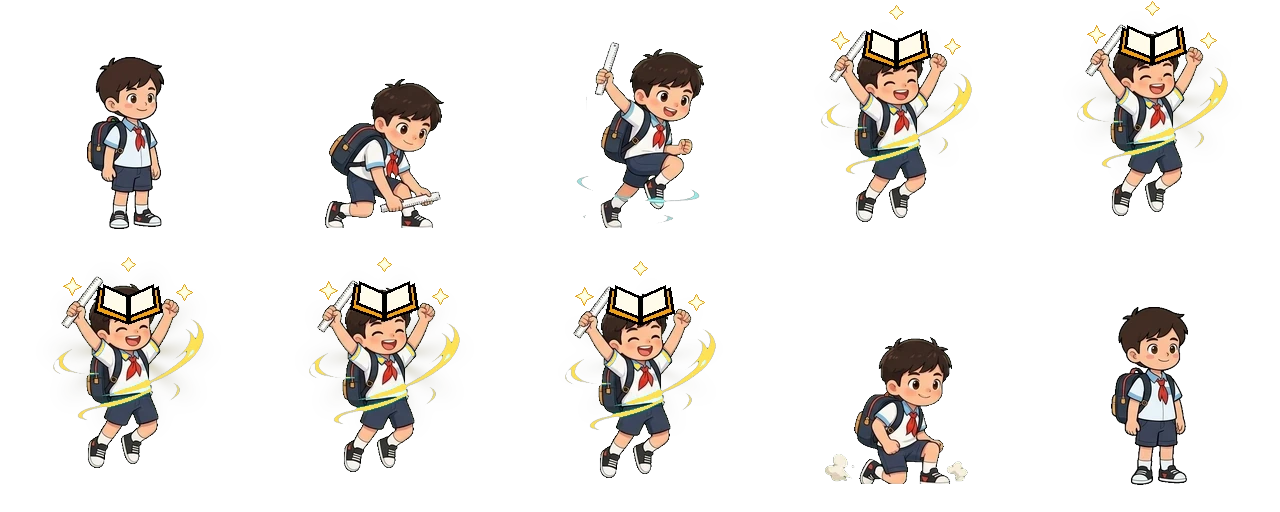
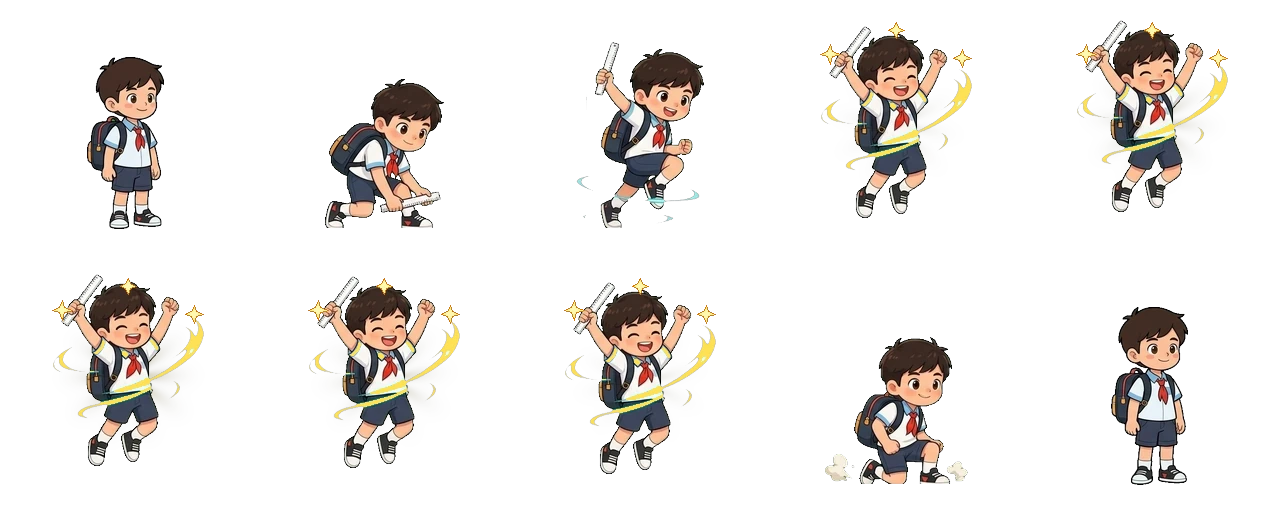
Hero 4: wall-slam Piercing Palm dash (no projectile), wallSlamMode setting, & Final Exam Judgment (no book)

diff --git a/game.js b/game.js
@@ -420,7 +420,7 @@
       name: '班長小強',
       hudName: '班長小強',
       badge: '📚 熱血班長',
-      subtitle: '雙掌太極推 · 書包大風車 · 直尺昇龍斬 · 黃金課本審判',
+      subtitle: '雙掌太極推 · 書包大風車 · 飛馳穿心掌 · 期末考大審判',
       accent: '#2563eb',
       accentLight: '#60a5fa',
       accentDark: '#1e3a8a',
@@ -428,9 +428,9 @@
       walkSpeed: 240,
       runSpeed: 392,
       specialType: 'judgment',
-      specialLabel: '黃金課本審判',
-      specialShout: '黃金課本・聖光審判!!',
-      specialSub: 'GOLDEN TEXTBOOK JUDGMENT!!',
+      specialLabel: '期末考大審判',
+      specialShout: '期末考大審判!!',
+      specialSub: 'FINAL EXAM JUDGMENT!!',
       heavyShout: '書包大風車橫掃!!',
       heavySub: 'BACKPACK WINDMILL!!',
       dashLightShout: '飛馳穿心掌!!',
@@ -695,10 +695,10 @@
       { id: 'boy_dash', label: '衝刺・疾風滑步 (Dash)', triggerDesc: '低姿青色風軌滑步瞬間突進閃避', sheetKey: 'boy_dash', fallbackSheet: 'boy_idle', fps: 24, cols: 5, rows: 2, frameCount: 10, key: null, altKeys: [], rebindable: false },
       { id: 'boy_lightAttack', label: '輕攻擊・雙掌太極推 (Light)', triggerDesc: '武術推掌連擊：右掌推擊→左掌蓄力→雙掌爆裂氣波推', sheetKey: 'boy_lightAttack', fallbackSheet: 'boy_idle', fps: 17, cols: 5, rows: 2, frameCount: 10, key: null, altKeys: [], rebindable: false },
       { id: 'boy_attack', label: '重攻擊・書包大風車橫掃 (Heavy)', triggerDesc: '摘下深藍書包 360° 大風車猛力橫掃，爆出青色弧形衝擊波', sheetKey: 'boy_attack', fallbackSheet: 'boy_idle', fps: 16, cols: 5, rows: 2, frameCount: 10, key: null, altKeys: [], rebindable: false },
-      { id: 'boy_dashLightAttack', label: '衝刺輕攻擊・飛馳穿心掌 (Dash Light)', triggerDesc: '奔跑中按輕攻疾馳突進單掌破風氣功推擊', sheetKey: 'boy_dashLightAttack', fallbackSheet: 'boy_idle', fps: 17, cols: 5, rows: 2, frameCount: 10, key: null, altKeys: [], rebindable: false },
+      { id: 'boy_dashLightAttack', label: '衝刺輕攻擊・飛馳穿心掌（撞飛撞牆） (Dash Light)', triggerDesc: '奔跑中按輕攻疾馳突進近身猛推，將敵人高速打飛至畫面邊緣猛烈撞牆並撞飛沿路敵人', sheetKey: 'boy_dashLightAttack', fallbackSheet: 'boy_idle', fps: 17, cols: 5, rows: 2, frameCount: 10, key: null, altKeys: [], rebindable: false },
       { id: 'boy_dashAttack', label: '衝刺重攻擊・書包肩撞鐵山靠 (Dash Heavy)', triggerDesc: '跑步中按重攻壓低身軀發動霸體鐵山靠肩撞，捲起塵浪重擊', sheetKey: 'boy_dashAttack', fallbackSheet: 'boy_idle', fps: 16, cols: 5, rows: 2, frameCount: 10, key: null, altKeys: [], rebindable: false },
       { id: 'boy_tornadoKick', label: '特殊技・直尺昇龍旋風斬 (Special Skill)', triggerDesc: '↑+重攻高舉白直尺騰空螺旋昇龍，捲起青色旋風浮空連擊', sheetKey: 'boy_tornadoKick', fallbackSheet: 'boy_idle', fps: 16, cols: 5, rows: 2, frameCount: 10, key: null, altKeys: [], rebindable: false },
-      { id: 'boy_special', label: '必殺技・黃金課本聖光審判 (Super Special)', triggerDesc: '躍空高舉翻開的黃金課本，全場降下五道黃金天降聖光柱審判', sheetKey: 'boy_special', fallbackSheet: 'boy_idle', fps: 12, cols: 5, rows: 2, frameCount: 10, key: null, altKeys: [], rebindable: false },
+      { id: 'boy_special', label: '必殺技・期末考大審判 (Super Special)', triggerDesc: '躍空高舉雙手召喚期末考天降五道黃金審判光柱，全場多段聖光轟擊', sheetKey: 'boy_special', fallbackSheet: 'boy_idle', fps: 12, cols: 5, rows: 2, frameCount: 10, key: null, altKeys: [], rebindable: false },
       { id: 'boy_hurt', label: '受傷硬直 (Hurt)', triggerDesc: '受擊爆星閃白→20°後仰踉蹌→滑步蹲姿緩衝→回復站姿', sheetKey: 'boy_hurt', fallbackSheet: 'boy_idle', fps: 15, cols: 5, rows: 2, frameCount: 10, key: null, altKeys: [], rebindable: false },
       { id: 'boy_victory', label: '戰鬥勝利動作 (Victory)', triggerDesc: '過關結算專屬 10 幀躍空高舉歡呼＋金色星芒彩帶慶祝動畫', sheetKey: 'boy_victory', fallbackSheet: 'boy_idle', fps: 10, cols: 5, rows: 2, frameCount: 10, key: null, altKeys: [], rebindable: false },
     ];
@@ -793,6 +793,7 @@
           flinchOnHit: true,
           hitstunMult: 1.0,
           knockbackMode: 'normal', // 'normal' | 'resist' | 'immune'
+          wallSlamMode: charId === 'aqiang_boy' ? 'dashLight' : 'off', // 'off' | 'dashLight' | 'heavy' | 'all'
           speedMult: 1.0,
           dmgMult: 1.0,
         };
@@ -806,6 +807,7 @@
         flinchOnHit: true,
         hitstunMult: 1.0,
         knockbackMode: 'normal',
+        wallSlamMode: 'off',
         speedMult: 1.0,
         dmgMult: 1.0,
       };
@@ -823,6 +825,7 @@
         flinchOnHit: typeof ov.flinchOnHit === 'boolean' ? ov.flinchOnHit : def.flinchOnHit,
         hitstunMult: typeof ov.hitstunMult === 'number' ? Math.max(0.2, Math.min(2.5, ov.hitstunMult)) : def.hitstunMult,
         knockbackMode: ['normal', 'resist', 'immune'].includes(ov.knockbackMode) ? ov.knockbackMode : def.knockbackMode,
+        wallSlamMode: ['off', 'dashLight', 'heavy', 'all'].includes(ov.wallSlamMode) ? ov.wallSlamMode : def.wallSlamMode,
         speedMult: typeof ov.speedMult === 'number' ? Math.max(0.3, Math.min(2.5, ov.speedMult)) : def.speedMult,
         dmgMult: typeof ov.dmgMult === 'number' ? Math.max(0.3, Math.min(3.0, ov.dmgMult)) : def.dmgMult,
       };
@@ -841,6 +844,7 @@
         cur.flinchOnHit !== def.flinchOnHit ||
         Math.abs(cur.hitstunMult - def.hitstunMult) > 0.01 ||
         cur.knockbackMode !== def.knockbackMode ||
+        cur.wallSlamMode !== def.wallSlamMode ||
         Math.abs(cur.speedMult - def.speedMult) > 0.01 ||
         Math.abs(cur.dmgMult - def.dmgMult) > 0.01
       );
@@ -4532,13 +4536,43 @@
         return;
       }
 
+      const isBoy = this.hero.id === 'aqiang_boy';
       let speed = 0;
-      if (progress < 0.12) speed = 310;
-      else if (progress < 0.24) speed = 200;
-      else if (progress < 0.35) speed = 110;
-      else if (progress < 0.55) speed = 80;
-      else if (progress >= 0.62 && progress < 0.8) speed = 90;
+      if (isBoy) {
+        if (progress < 0.25) speed = 420;
+        else if (progress < 0.55) speed = 340;
+        else if (progress < 0.72) speed = 150;
+        else speed = 0;
+      } else {
+        if (progress < 0.12) speed = 310;
+        else if (progress < 0.24) speed = 200;
+        else if (progress < 0.35) speed = 110;
+        else if (progress < 0.55) speed = 80;
+        else if (progress >= 0.62 && progress < 0.8) speed = 90;
+      }
       this.x += this.facing * speed * dt;
+
+      if (isBoy) {
+        // 班長小強專屬：不發射氣功／足球，近身疾馳穿心掌直接將敵人高速打飛至畫面邊緣猛烈撞牆！
+        if (progress >= 0.30 && progress <= 0.65) {
+          const hit = this.performMeleeHitbox(188, 30, true, 900, this.hitIds, {
+            wallSlam: true,
+            customWord: '飛馳穿心掌!!',
+          });
+          if (hit && !this.ballLaunched) {
+            this.ballLaunched = true;
+            addShake(9, 0.16);
+            triggerImpactFrame('#38bdf8', 0.06);
+            spawnParticles(this.x + this.facing * 92, this.z - 72, '#38bdf8', 16, 300, 7);
+            spawnParticles(this.x + this.facing * 92, this.z - 72, '#ffffff', 8, 240, 5);
+          }
+        }
+        if (this.stateTime >= totalDur) {
+          this.state = 'idle';
+          this.animTimer = 0;
+        }
+        return;
+      }
 
       if (progress >= 0.28 && progress <= 0.42) {
         this.performMeleeHitbox(148, 22, false, 180);
@@ -5130,6 +5164,14 @@
       const effReach = reach * Math.max(0.75, pCfg.scale || 1);
       const sparkCol = heavy ? (this.hero.heavySparkColor || '#facc15') : (this.hero.sparkColor || '#e879f9');
       const minDx = -(opts && opts.wideBack ? opts.wideBack : 30) * Math.max(0.8, pCfg.scale || 1);
+      const wsMode = pCfg.wallSlamMode || 'off';
+      const autoWallSlam = (
+        wsMode === 'all' ||
+        (wsMode === 'heavy' && (heavy || this.state === 'dashLightAttack' || this.state === 'dashAttack')) ||
+        (wsMode === 'dashLight' && this.state === 'dashLightAttack')
+      );
+      const effOpts = autoWallSlam ? { ...(opts || {}), wallSlam: true } : opts;
+      const effKnock = (effOpts && effOpts.wallSlam) ? Math.max(820, knockForce || 0) : knockForce;
       for (const e of game.enemies) {
         if (e.dead || hitSet.has(e.id)) continue;
         const dx = (e.x - this.x) * this.facing;
@@ -5137,7 +5179,7 @@
         const sizePadZ = Math.max(0, ((e.cfg.scale || 1) - 1) * 18);
         if (dx >= (minDx - sizePadX * 0.4) && dx <= (effReach + sizePadX) && Math.abs(e.z - this.z) <= Z_HIT_MELEE + 12 + sizePadZ) {
           hitSet.add(e.id);
-          e.takeHit(effDmg, this.facing, heavy, knockForce, sparkCol, opts && opts.customWord ? opts.customWord : null, opts);
+          e.takeHit(effDmg, this.facing, heavy || Boolean(effOpts && effOpts.wallSlam), effKnock, sparkCol, effOpts && effOpts.customWord ? effOpts.customWord : null, effOpts);
           this.energy = Math.min(this.maxEnergy, this.energy + (heavy ? 12 : 7));
           hitAny = true;
         }
@@ -5914,10 +5956,26 @@
       const canLaunch = kbMode === 'normal';
       const kbScale = kbMode === 'immune' ? 0 : (kbMode === 'resist' ? 0.42 : 1.0);
 
-      if (launchAir && canLaunch) {
+      const wantWallSlam = Boolean(opts && opts.wallSlam);
+      if (wantWallSlam && kbMode !== 'immune') {
+        this.state = 'knocked';
+        this.isLaunched = false;
+        this.wallSlamActive = true;
+        this.wallSlamHitIds = new Set([this.id]);
+        this.stateTime = 0;
+        this.frame = 2;
+        const flySpeed = Math.max(760, knockForce || 860) * (kbMode === 'resist' ? 0.65 : 1.0);
+        this.vx = dir * flySpeed;
+        this.vy = 235;
+        this.jumpY = Math.max(this.jumpY, 8);
+        if (!opts.isBowlingHit) {
+          addFloatText(this.x, hitY - 28, '💨 撞飛!!', '#38bdf8', 21);
+        }
+      } else if (launchAir && canLaunch) {
         addFloatText(this.x, hitY - 26, '▲ 浮空!!', '#e879f9', 20);
         this.state = 'knocked';
         this.isLaunched = true;
+        this.wallSlamActive = false;
         this.stateTime = 0;
         this.frame = 2;
         this.vx = dir * Math.min(knockForce || 80, 95);
@@ -5936,6 +5994,7 @@
       } else if (heavy && canLaunch) {
         this.state = 'knocked';
         this.isLaunched = false;
+        this.wallSlamActive = false;
         this.stateTime = 0;
         this.frame = 2;
         this.vx = dir * knockForce;
@@ -5943,6 +6002,7 @@
         this.jumpY = 2;
       } else if (flinchOnHit) {
         this.state = 'hurt';
+        this.wallSlamActive = false;
         this.stateTime = 0;
         this.frame = 0;
         this.vx = dir * (knockForce || 90) * kbScale;
@@ -5990,9 +6050,27 @@
       // Airborne & knockback physics (slightly floatier apex gravity when launched for juicy air juggles!)
       if (this.jumpY > 0 || this.vy > 0) {
         this.jumpY += this.vy * dt;
-        const grav = (this.isLaunched && this.vy < 140) ? 940 : 1250;
+        const grav = this.wallSlamActive ? 680 : ((this.isLaunched && this.vy < 140) ? 940 : 1250);
         this.vy -= grav * dt;
         this.x += this.vx * dt;
+
+        // Bowling knockback: flying enemy slams through other enemies in its path!
+        if (this.wallSlamActive && Math.abs(this.vx) > 260) {
+          if (Math.random() < 0.7) {
+            spawnParticles(this.x, this.z - this.jumpY - 58, '#bae6fd', 1, 90, 5);
+          }
+          const flyDir = this.vx >= 0 ? 1 : -1;
+          for (const other of game.enemies) {
+            if (other === this || other.dead) continue;
+            if (this.wallSlamHitIds && this.wallSlamHitIds.has(other.id)) continue;
+            if (Math.abs(other.x - this.x) < 68 && Math.abs(other.z - this.z) < 48) {
+              if (this.wallSlamHitIds) this.wallSlamHitIds.add(other.id);
+              other.takeHit(18, flyDir, true, 640, '#38bdf8', '連鎖撞飛!!', { wallSlam: true, isBowlingHit: true });
+              addShake(6, 0.10);
+            }
+          }
+        }
+
         if (this.jumpY <= 0) {
           this.jumpY = 0;
           this.isLaunched = false;
@@ -6005,6 +6083,7 @@
           } else {
             this.vy = 0;
             this.vx = 0;
+            this.wallSlamActive = false;
           }
         }
       }
@@ -6834,18 +6913,35 @@
 
       if (isKnockedOrFlying && impactSpeed > 85 && this.wallBounceCd <= 0) {
         // Classic arcade wall-slam rebound!
-        const reboundVx = Math.min(340, Math.max(165, impactSpeed * 0.54));
+        const isHeavySlam = Boolean(this.wallSlamActive) && impactSpeed > 260;
+        const reboundVx = isHeavySlam
+          ? Math.min(390, Math.max(220, impactSpeed * 0.45))
+          : Math.min(340, Math.max(165, impactSpeed * 0.54));
         this.vx = hitLeft ? reboundVx : -reboundVx;
-        this.vy = Math.max(this.vy, 210);
+        this.vy = Math.max(this.vy, isHeavySlam ? 310 : 210);
         if (this.jumpY < 8) this.jumpY = 8;
-        this.wallBounceCd = 0.22;
+        this.wallBounceCd = 0.24;
+        this.wallSlamActive = false;
         const wallFxX = hitLeft ? game.camX + 18 : game.camX + CANVAS_W - 18;
-        spawnParticles(wallFxX, this.z - this.jumpY - 64, '#f8fafc', 12, 220, 6);
-        spawnParticles(wallFxX, this.z - this.jumpY - 64, '#fde047', 6, 180, 5);
-        addShake(6, 0.12);
-        sfx.playHit(false);
+        spawnParticles(wallFxX, this.z - this.jumpY - 64, '#f8fafc', isHeavySlam ? 20 : 12, isHeavySlam ? 290 : 220, isHeavySlam ? 7 : 6);
+        spawnParticles(wallFxX, this.z - this.jumpY - 64, isHeavySlam ? '#38bdf8' : '#fde047', isHeavySlam ? 12 : 6, 240, 6);
+        addShake(isHeavySlam ? 11 : 6, isHeavySlam ? 0.18 : 0.12);
+        sfx.playHit(isHeavySlam);
         if (this.state !== 'dead') {
-          addFloatText(this.x, this.z - this.jumpY - 125, '撞牆!!', '#fde047', 20);
+          if (isHeavySlam) {
+            const slamDmg = 16;
+            if (!game.training || !game.training.infHp) {
+              this.hp = Math.max(0, this.hp - slamDmg);
+              if (this.hp <= 0) {
+                this.dead = true;
+                this.state = 'dead';
+                this.stateTime = 0;
+              }
+            }
+            addFloatText(this.x, this.z - this.jumpY - 128, `💥 猛烈撞牆 -${slamDmg}!!`, '#fde047', 22);
+          } else {
+            addFloatText(this.x, this.z - this.jumpY - 125, '撞牆!!', '#fde047', 20);
+          }
         }
       } else {
         if ((hitLeft && this.vx < 0) || (hitRight && this.vx > 0)) this.vx = 0;
@@ -9948,6 +10044,22 @@
           </div>
         </div>
 
+        ${activeChar.role === 'hero' ? `
+        <div class="param-cell">
+          <div class="param-cell-top">
+            <span>💨 撞飛敵人／撞牆設定</span>
+            <span id="lblParamWallSlam" class="param-val-badge">${cp.wallSlamMode === 'all' ? '全攻擊撞飛' : (cp.wallSlamMode === 'heavy' ? '重擊撞飛' : (cp.wallSlamMode === 'dashLight' ? '衝刺輕攻撞飛' : '關閉'))}</span>
+          </div>
+          <div class="param-ctrl-row">
+            <select id="selParamWallSlam" class="param-select">
+              <option value="off" ${cp.wallSlamMode === 'off' ? 'selected' : ''}>關閉（一般擊退）</option>
+              <option value="dashLight" ${cp.wallSlamMode === 'dashLight' ? 'selected' : ''}>衝刺輕攻可將敵人打飛撞牆＋連鎖撞飛</option>
+              <option value="heavy" ${cp.wallSlamMode === 'heavy' ? 'selected' : ''}>重擊與衝刺皆可打飛撞牆＋連鎖撞飛</option>
+              <option value="all" ${cp.wallSlamMode === 'all' ? 'selected' : ''}>所有攻擊皆可打飛撞牆＋連鎖撞飛</option>
+            </select>
+          </div>
+        </div>` : ''}
+
         <div class="param-cell">
           <div class="param-cell-top">
             <span>⏱ 受擊硬直時長倍率</span>
@@ -10087,6 +10199,17 @@
         const m = selKb.value;
         StudioState.setCombatParams(activeChar.id, { knockbackMode: m });
         if (lblKb) lblKb.textContent = m === 'immune' ? '不動如山' : (m === 'resist' ? '抗浮空' : '正常浮空');
+      });
+    }
+
+    // Wall-Slam / Bowling Knockback Mode
+    const selWs = document.getElementById('selParamWallSlam');
+    const lblWs = document.getElementById('lblParamWallSlam');
+    if (selWs) {
+      selWs.addEventListener('change', () => {
+        const m = selWs.value;
+        StudioState.setCombatParams(activeChar.id, { wallSlamMode: m });
+        if (lblWs) lblWs.textContent = m === 'all' ? '全攻擊撞飛' : (m === 'heavy' ? '重擊撞飛' : (m === 'dashLight' ? '衝刺輕攻撞飛' : '關閉'));
       });
     }
 

diff --git a/src/game_catalog.js b/src/game_catalog.js
@@ -89,10 +89,10 @@
         act('boy_dash', '衝刺・疾風滑步 (Dash)', 'boy_dash', 'assets/boy_dash_sheet.webp', 24, 'on_move', false),
         act('boy_lightAttack', '輕攻擊・雙掌太極推 (Light)', 'boy_lightAttack', 'assets/boy_lightAttack_sheet.webp', 17, 'on_attack', false),
         act('boy_attack', '重攻擊・書包大風車橫掃 (Heavy)', 'boy_attack', 'assets/boy_attack_sheet.webp', 16, 'on_attack', false),
-        act('boy_dashLightAttack', '衝刺輕攻擊・飛馳穿心掌 (Dash Light)', 'boy_dashLightAttack', 'assets/boy_dashLightAttack_sheet.webp', 17, 'on_attack', false),
+        act('boy_dashLightAttack', '衝刺輕攻擊・飛馳穿心掌（撞飛撞牆） (Dash Light)', 'boy_dashLightAttack', 'assets/boy_dashLightAttack_sheet.webp', 17, 'on_attack', false),
         act('boy_dashAttack', '衝刺重攻擊・書包肩撞鐵山靠 (Dash Heavy)', 'boy_dashAttack', 'assets/boy_dashAttack_sheet.webp', 16, 'on_attack', false),
         act('boy_tornadoKick', '特殊技・直尺昇龍旋風斬 (Special Skill)', 'boy_tornadoKick', 'assets/boy_tornadoKick_sheet.webp', 16, 'on_attack', false),
-        act('boy_special', '必殺技・黃金課本聖光審判 (Super Special)', 'boy_special', 'assets/boy_special_sheet.webp', 12, 'on_attack', false),
+        act('boy_special', '必殺技・期末考大審判 (Super Special)', 'boy_special', 'assets/boy_special_sheet.webp', 12, 'on_attack', false),
         act('boy_hurt', '受傷硬直 (Hurt)', 'boy_hurt', 'assets/boy_hurt_sheet.webp', 15, 'on_hurt', false),
         act('boy_victory', '戰鬥勝利動作 (Victory)', 'boy_victory', 'assets/boy_victory_sheet.webp', 10, 'custom', true),
       ],
